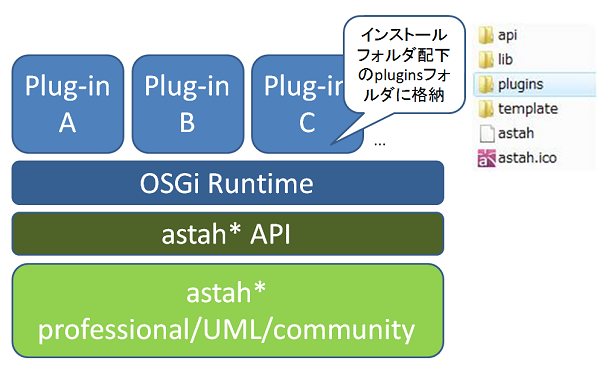
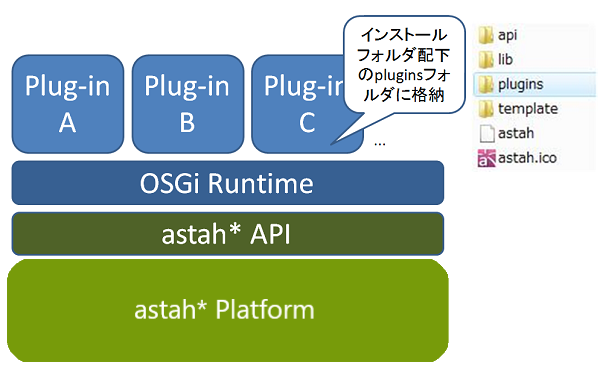
astah Safety Systemを考慮した記述を追加した

Changed region(s): [[0.0, 0.6913, 0.75, 0.9918]]

diff --git a/source/appendixA.rst b/source/appendixA.rst
@@ -144,9 +144,6 @@ astah* メニューID一覧
     プロジェクトを保存                           file/save                               
     プロジェクトの別名保存                       file/saveas                             
     プロジェクトを閉じる                         file/close                              
-    プロジェクトをマージ                         file/import_model_by_uuid               
-    参照プロジェクト管理                         file/refer_model_management             
-    プロジェクトの簡易比較                       file/compare_project                    
     印刷設定(プロジェクト)                       file/print_setup                        
     印刷設定(図)                                 file/print_setup_dgm                    
     印刷プレビュー                               file/print_preview                      
@@ -173,22 +170,16 @@ astah* メニューID一覧
     ダイアグラム上の検索                         edit/dgm_search                         
     全選択                                       edit/select_all                         
     順序                                         edit/arrange_depth                      
-    クラス図                                     diagram/class_diagram                   
+    要求図                                       diagram/requirement_diagram             
+    要求テーブル                                 diagram/requirement_table               
+    ブロック定義図                               diagram/block_definition_diagram                   
+    内部ブロック定義図                           diagram/internal_block_diagram                   
+    パラメトリック図                             diagram/parametric_diagram                   
     ユースケース図                               diagram/usecase_diagram                 
     ステートマシン図                             diagram/state_chart_diagram             
     アクティビティ図                             diagram/activity_diagram                
     シーケンス図                                 diagram/sequence_diagram                
-    コミュニケーションズ                         diagram/collaboration_diagram           
-    コンポーネント図                             diagram/component_diagram               
-    配置図                                       diagram/deployment_diagram              
-    合成構造図                                   diagram/compositestructure_diagram      
-    フローチャート                               diagram/flow_chart_diagram              
-    データフロー図                               diagram/data_flow_diagram               
-    ER図                                         diagram/er_diagram                      
-    CRUD                                         diagram/crud_diagram                    
     マインドマップ                               diagram/mind_map_diagram                
-    要求図                                       diagram/requirement_diagram             
-    要求テーブル                                 diagram/requirement_table               
     横の整列                                     alignment/align_horizontally            
     縦の整列                                     alignment/align_vertically              
     サイズ揃え                                   alignment/align_size                    
@@ -201,26 +192,12 @@ astah* メニューID一覧
     前の図                                       view/drop_down_back_list                
     次の図                                       view/drop_down_forward_list             
     プロジェクトビューの表示/非表示              view/show_hide_project_view             
-    プラグインビューの表示/非表示                view/show_hide_plugin_view              
     ルック＆フィールの変更                       view/ui                                 
-    別名の表示                                   view/alias                              
     図を画像ファイルに出力                       tool/export_image                       
-    HTML作成(javadoc)                            tool/export_html                        
-    クラス一覧                                   tool/export_csv                         
-    XML入出力                                    tool/xmi                                
-    RTFドキュメント作成                          tool/export_rtf                         
     マインドマップ                               tool/mindmap                            
-    Java                                         tool/java                               
-    C#                                           tool/c_sharp                            
-    C++                                          tool/c_plus                             
-    ER図                                         tool/er                                 
-    CRUD                                         tool/crud                               
     要求                                         tool/requirement                        
-    トレーサビリティマップ                       tool/traceability                       
     テンプレートの設定                           tool/template                           
     リンク切れハイパーリンクの検索               tool/search_invalid_hyperlinks          
-    ユーザー定義タグ付き値の反映                 tool/update_custom_taggedvalue          
-    外部ツール                                   tool/external_tool                      
     モデル補正                                   tool/correct_model                      
     ライセンス設定                               tool/check_license                      
     プロジェクト設定                             tool/project_property                   
@@ -233,8 +210,9 @@ astah* メニューID一覧
     整列                                         window/alignment                        
     astah* ウェブサイト                          help/jude_home                          
     astah* コミュニティサイト                    help/jude_community                     
-    astah* リファレンスマニュアル                help/jude_help                          
-    ようこそastah* professionalへ                help/welcome                            
+    astah* SysMLチュートリアルサイト             help/jude_help                          
+    astah* SysML API利用ガイドサイト             help/sysml_api_guide                          
+    ようこそastah* SysMLへ                       help/welcome                            
     バグ報告                                     help/bug_info_community                 
     サポートへの問い合わせ                       help/jude_support_site                  
     プラグイン一覧                               help/plugin_list                        
@@ -257,16 +235,14 @@ astah* メニューID一覧
     表示                                         view                                    
     ツール                                       tool                                    
     ウィンドウ                                   window                                  
+    プラグイン                                   plugin                                  
     ヘルプ                                       help                                    
     プロジェクトの新規作成                       file/new                                
-    テンプレートからプロジェクトの新規作成       file/new_template                       
     プロジェクトを開く                           file/open                               
     プロジェクトを保存                           file/save                               
     プロジェクトの別名保存                       file/saveas                             
     プロジェクトを閉じる                         file/close                              
-    プロジェクトをマージ                         file/import_model_by_uuid               
-    参照プロジェクト管理                         file/refer_model_management             
-    プロジェクトの簡易比較                       file/compare_project                    
+    プロジェクトの比較とマージ                   file/compare_project               
     印刷設定(プロジェクト)                       file/print_setup                        
     印刷設定(図)                                 file/print_setup_dgm                    
     印刷プレビュー                               file/print_preview                      
@@ -293,27 +269,28 @@ astah* メニューID一覧
     ダイアグラム上の検索                         edit/dgm_search                         
     全選択                                       edit/select_all                         
     順序                                         edit/arrange_depth                      
-    クラス図                                     diagram/class_diagram                   
-    ユースケース図                               diagram/usecase_diagram                 
-    ステートマシン図                             diagram/state_chart_diagram             
-    アクティビティ図                             diagram/activity_diagram                
-    シーケンス図                                 diagram/sequence_diagram                
-    コミュニケーションズ                         diagram/collaboration_diagram           
-    コンポーネント図                             diagram/component_diagram               
-    配置図                                       diagram/deployment_diagram              
-    合成構造図                                   diagram/compositestructure_diagram      
-    フローチャート                               diagram/flow_chart_diagram              
-    データフロー図                               diagram/data_flow_diagram               
-    ER図                                         diagram/er_diagram                      
-    CRUD                                         diagram/crud_diagram                    
+    SysML 要求図                                 diagram/sysml_requirement_diagram       
+    SysML 要求テーブル                           diagram/sysml_requirement_table         
+    SysML ブロック定義図                         diagram/sysml_block_definition_diagram  
+    SysML 内部ブロック図                         diagram/sysml_internal_block_diagram    
+    SysML パラメトリック図                       diagram/sysml_parametric_diagram        
+    SysML ユースケース図                         diagram/sysml_usecase_diagram           
+    SysML ステートマシン図                       diagram/sysml_state_chart_diagram       
+    SysML アクティビティ図                       diagram/sysml_activity_diagram          
+    SysML シーケンス図                           diagram/sysml_sequence_diagram          
+    STAMP/STPA 前提条件表                        diagram/stamp/precondition_table        
+    STAMP/STPA アクシデントハザード安全制約表    diagram/stamp/accident_hazard_safety_constraint_table
+    STAMP/STPA コントロールストラクチャー図      diagram/stamp/control_structure_diagram 
+    STAMP/STPA UCA表                             diagram/stamp/uca_table                 
+    STAMP/STPA コントロールループ図              diagram/stamp/control_loop_diagram      
+    STAMP/STPA ロスシナリオ表                    diagram/stamp/hcf_table                 
+    STAMP/STPA 対策表                            diagram/stamp/countermeasure_table      
+    GSN/D-CASE図                                 diagram/gsn/gsn_diagram                 
+    SCDL/安全コンセプト図                        diagram/scdl/safety_concept_diagram
     マインドマップ                               diagram/mind_map_diagram                
-    要求図                                       diagram/requirement_diagram             
-    要求テーブル                                 diagram/requirement_table               
     横の整列                                     alignment/align_horizontally            
     縦の整列                                     alignment/align_vertically              
     サイズ揃え                                   alignment/align_size                    
-    全図要素の自動レイアウト                     alignment/auto_layout                   
-    選択図要素の自動レイアウト                   alignment/partial_layout                
     標準の倍率にする                             view/zoom                               
     拡大する                                     view/zoom_in                            
     縮小する                                     view/zoom_out                           
@@ -321,43 +298,26 @@ astah* メニューID一覧
     前の図                                       view/drop_down_back_list                
     次の図                                       view/drop_down_forward_list             
     プロジェクトビューの表示/非表示              view/show_hide_project_view             
-    プラグインビューの表示/非表示                view/show_hide_plugin_view              
-    ルック＆フィールの変更                       view/ui                                 
-    別名の表示                                   view/alias                              
     図を画像ファイルに出力                       tool/export_image                       
-    HTML作成(javadoc)                            tool/export_html                        
-    クラス一覧                                   tool/export_csv                         
-    XML入出力                                    tool/xmi                                
-    RTFドキュメント作成                          tool/export_rtf                         
+    UML/SysML                                    tool/uml_and_sysml                          
+    SCDL                                         tool/scdl                               
+    STAMP/STPA                                   tool/stamp_and_stpa                     
     マインドマップ                               tool/mindmap                            
-    Java                                         tool/java                               
-    C#                                           tool/c_sharp                            
-    C++                                          tool/c_plus                             
-    ER図                                         tool/er                                 
-    CRUD                                         tool/crud                               
-    要求                                         tool/requirement                        
-    トレーサビリティマップ                       tool/traceability                       
-    テンプレートの設定                           tool/template                           
-    リンク切れハイパーリンクの検索               tool/search_invalid_hyperlinks          
-    ユーザー定義タグ付き値の反映                 tool/update_custom_taggedvalue          
-    外部ツール                                   tool/external_tool                      
     モデル補正                                   tool/correct_model                      
-    ライセンス設定                               tool/check_license                      
-    プロジェクト設定                             tool/project_property                   
     システムプロパティ                           tool/system_property                    
     閉じる                                       window/close_current                    
     左側のタブを全て閉じる                       window/close_left                       
     右側のタブを全て閉じる                       window/close_right                      
     他のタブを閉じる                             window/close_other                      
     全て閉じる                                   window/close_all                        
-    整列                                         window/alignment                        
-    astah* ウェブサイト                          help/jude_home                          
-    astah* コミュニティサイト                    help/jude_community                     
-    astah* リファレンスマニュアル                help/jude_help                          
-    ようこそastah* professionalへ                help/welcome                            
-    バグ報告                                     help/bug_info_community                 
+    上下に並べて表示                             window/align_horizontally               
+    左右に並べて表示                             window/align_vertically                 
+    上下左右に並べて表示                         window/align_tile                       
+    インストール済みプラグイン                   plugin/installed_plugin_list            
     サポートへの問い合わせ                       help/jude_support_site                  
-    プラグイン一覧                               help/plugin_list                        
+    astah* ウェブサイト                          help/jude_home                          
+    astah* リファレンスマニュアル                help/jude_help                          
+    ライセンスの設定                             help/check_license                        
     ソフトウェアの更新確認                       help/check_version                      
     バージョン情報                               help/version                            
    ============================================ ======================================= 

diff --git a/source/apilist.rst b/source/apilist.rst
@@ -7,14 +7,20 @@ astah* APIについて
 astah*のプラグインに関するAPIの情報は、
 astah* API利用ガイドおよびJavaDocを参照してください。
 
- * `astah* API利用ガイド <http://members.change-vision.com/javadoc/astah-api/latest/api/ja/doc/index.html>`_
- * `astah* API JavaDoc <http://members.change-vision.com/javadoc/astah-api/latest/api/ja/doc/javadoc/index.html>`_
+ * `astah* API利用ガイド <https://members.change-vision.com/javadoc/astah-api/latest/api/ja/doc/index.html>`_
+ * `astah* API JavaDoc <https://members.change-vision.com/javadoc/astah-api/latest/api/ja/doc/javadoc/index.html>`_
  
 astah* SysMLのプラグインに関するAPIの情報は、
 astah* SysML API利用ガイドおよびJavaDocを参照してください。
 
- * `astah* SysML API利用ガイド <http://astah.change-vision.com/ja/feature/astah-sysml-api-user-guide.html>`_
- * `astah* SysML API JavaDoc <http://members.change-vision.com/javadoc/astah-sysml-api/1.1/api/ja/doc/javadoc/index.html>`_
+ * `astah* SysML API利用ガイド <https://astah.change-vision.com/ja/tutorial/api-sysml.html>`_
+ * `astah* SysML API JavaDoc <https://members.change-vision.com/javadoc/astah-sysml-api/1.1/api/ja/doc/javadoc/index.html>`_
+ 
+astah* System Safetyのプラグインに関するAPIの情報は、
+astah* System Safety利用ガイドおよびJavaDocを参照してください。
+
+ * `astah* System Safety API利用ガイド <https://members.change-vision.com/javadoc/asy-api/latest/ja/doc/index.html>`_
+ * `astah* System Safety API JavaDoc <https://members.change-vision.com/javadoc/asy-api/latest/ja/doc/javadoc/index.html>`_
 
 Mavenについて
 -------------------------------------------------------

diff --git a/source/example.rst b/source/example.rst
@@ -21,7 +21,7 @@ Hello Worldの代わりに、astah*モデル内のクラスの総数を表示す
 モデル情報を取得してみましょう
 -------------------------------------------------------
 
-astah*のモデル情報を取得するために、astah* APIを活用してみましょう。astah* APIとは、astah*のモデルデータを活用するアプリケーションを開発するためのJavaインターフェース群です。詳細については、本体に付属するastah* API利用ガイドを参照してください。
+astah*のモデル情報を取得するために、astah* APIを活用してみましょう。astah* APIとは、astah*のモデルデータを活用するアプリケーションを開発するためのJavaインターフェース群です。詳細については、付属する各astah* API利用ガイドを参照してください。
 
 これから書くコードでは、ProjectAccessorから現在開いているastah*モデルのルートモデルを取得し、再帰的にすべてのクラスを取得します。それではクラスの総数をメッセージダイアログに表示するようにHelloWorldプラグインを修正してみましょう。
 

diff --git a/source/devenv.rst b/source/devenv.rst
@@ -2,7 +2,7 @@
 astah*のプラグインの開発環境を構築しましょう
 =======================================================
 
-`astah*のプラグイン開発環境として、astah* Plug-in SDKを配布しています。 <http://astah.change-vision.com/files/plugin/astah-plugin-sdk-latest.zip>`_ このSDKはMaven 3をベースにカスタマイズしたものです。
+astah*のプラグイン開発環境として、`astah* professional用 <https://astah.change-vision.com/files/plugin/astah-plugin-sdk-latest.zip>`_ と `astah* System Safety用 <https://astah.change-vision.com/files/plugin/safety-plugin-sdk-latest.zip>`_ のastah* Plug-in SDKを配布しています。このSDKはMaven 3をベースにカスタマイズしたものです。
 
 ここではastah*のプラグインの開発環境を構築しましょう。 `なお、astah*プラグイン開発環境のシステム要件は、astah*に準じます。 <http://astah.change-vision.com/ja/product/astah-requirement.html>`_
 
